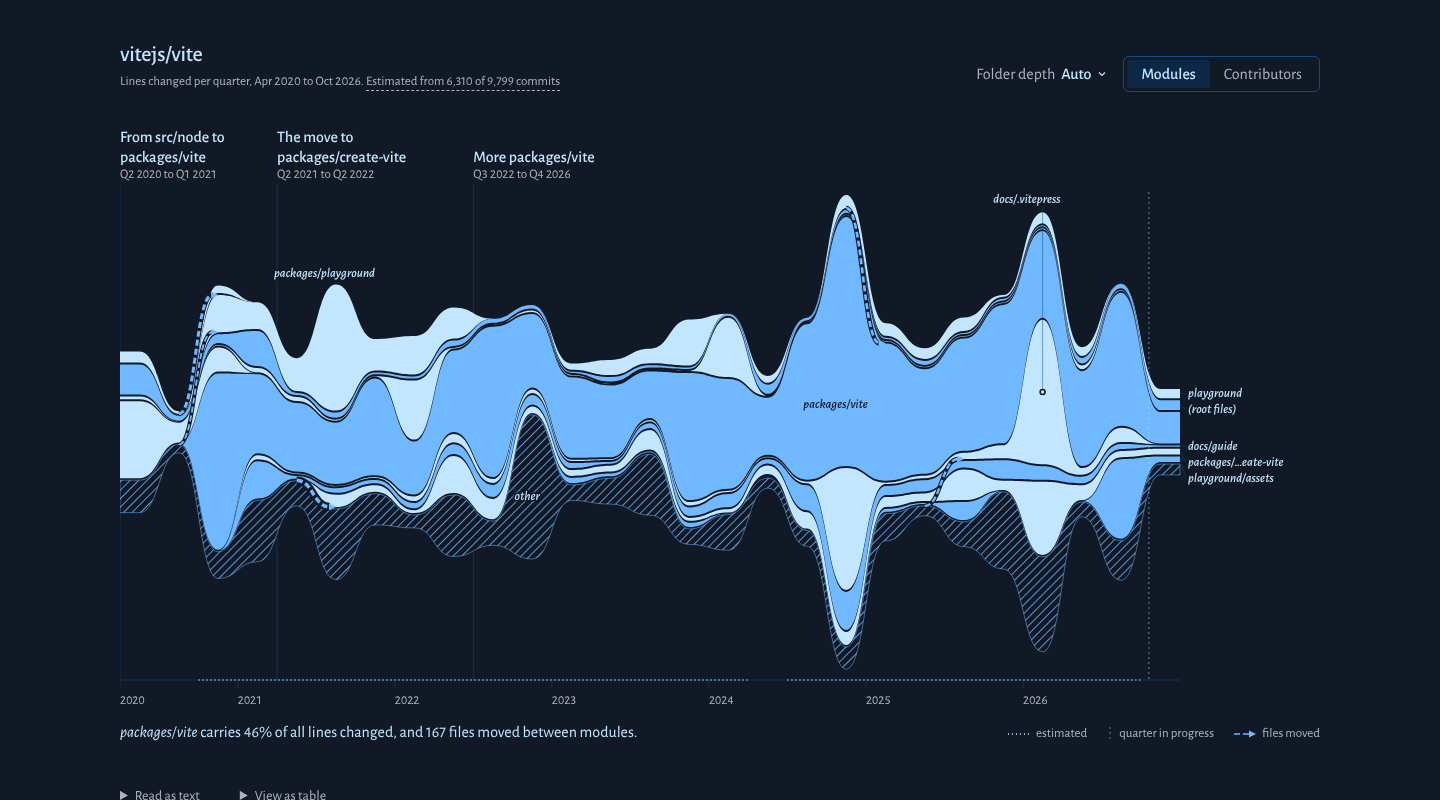
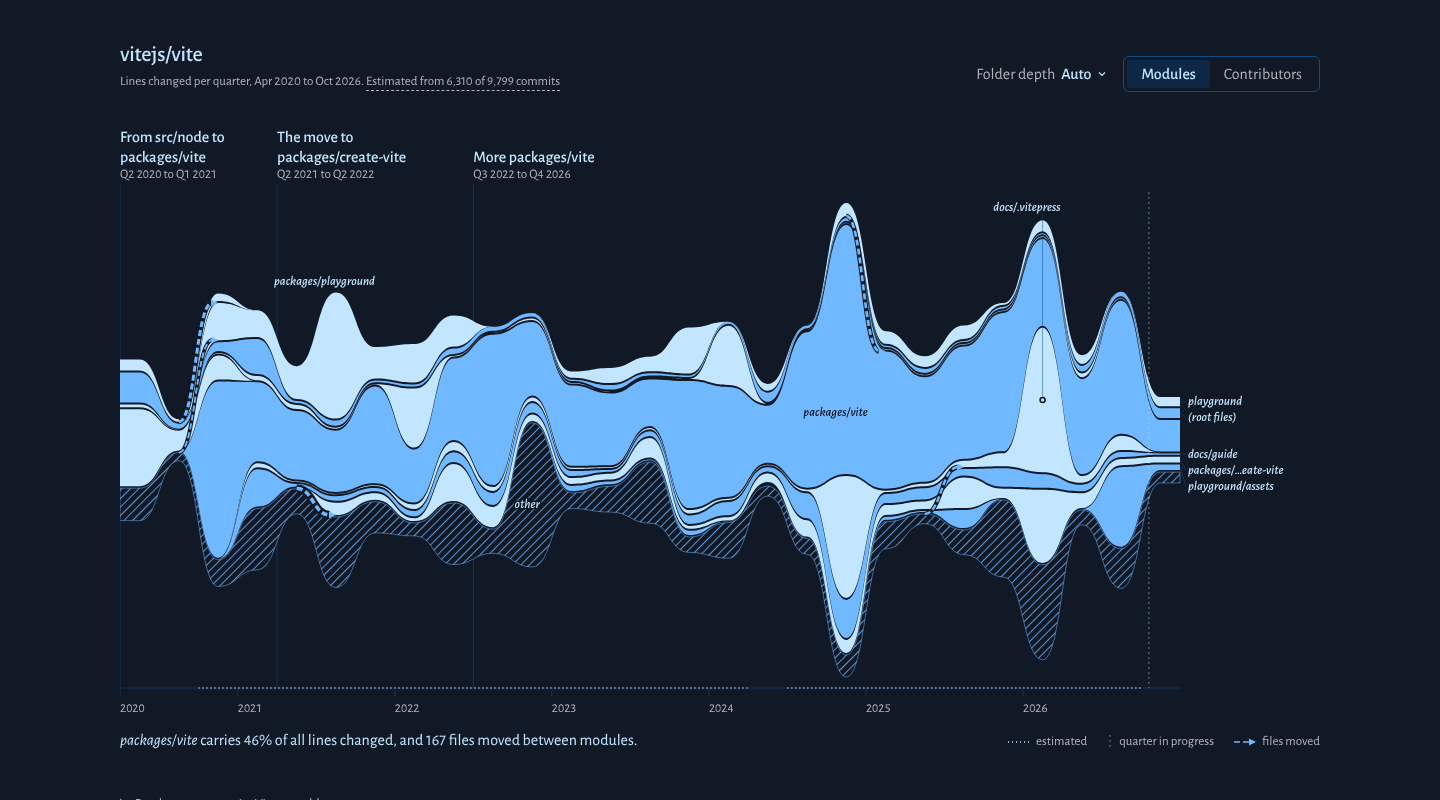
R3 review 1: unclipped focus rings, spoken-only caveats, plot top, [bot] names
- .rr-frame gets 8 px padding cancelled by a negative margin so the keyboard
  target's and era buttons' focus rings draw inside the scroll box; era
  buttons are inset so a ring stays clear of the next era's name.
- The visible readout is the board sentence plus merged moves; estimate,
  in-progress and clipped-column caveats are spoken only (readoutCaveats).
- The plot starts at ERA_BAND + 8 on desktop and in the social card.
- "bot" is not appended to names already ending in [bot] (tagsBot).
- DECISIONS rows for each, plus river focus not selecting an era.

Claude-Session: https://claude.ai/code/session_01JkYyYNqjFtcB2YRJcD65To

diff --git a/src/core/summary.test.ts b/src/core/summary.test.ts
@@ -1,7 +1,7 @@
 import { describe, expect, it } from 'vitest';
 import { layoutRivers } from './layout/layout.ts';
 import { parseAggregate, type RepoAggregate } from './schema.ts';
-import { amount, caveats, columnTotals, describeView, eraNote, eraRange, focusReadout, idleReadout, legendItems, plain, share } from './summary.ts';
+import { amount, caveats, columnTotals, describeView, eraNote, eraRange, focusReadout, idleReadout, legendItems, plain, readoutCaveats, share, tagsBot } from './summary.ts';
 import { selectView } from './view.ts';
 import express from '../samples/express.json';
 import svelte from '../samples/svelte.json';
@@ -48,12 +48,16 @@ describe('focusReadout', () => {
     expect(rich).toContainEqual({ b: new Intl.NumberFormat('en').format(r.values[i]!) });
     expect(c.estimated).toContain(i);
     expect(plain(rich)).toBe(`packages/vite, ${view.buckets[i]!.label}: ${new Intl.NumberFormat('en').format(r.values[i]!)} lines changed, `
-      + `${Math.round((100 * r.values[i]!) / totals[i]!)}% of the quarter. This quarter is estimated.`);
+      + `${Math.round((100 * r.values[i]!) / totals[i]!)}% of the quarter.`);
+    expect(readoutCaveats(view, c, i)).toBe(' This quarter is estimated.');
   });
 
-  it('reads zero values as "no changes" and adds the partial bucket on the last one', () => {
+  it('reads zero values as "no changes"; the partial bucket is spoken only', () => {
     const r = view.rivers.find((x) => x.values.at(-1) === 0)!;
-    expect(line(r.id, view.buckets.length - 1)).toBe(`${r.label}, ${view.buckets.at(-1)!.label}: no lines changed this quarter. Quarter in progress, to 20 Oct.`);
+    const last = view.buckets.length - 1;
+    expect(line(r.id, last)).toBe(`${r.label}, ${view.buckets.at(-1)!.label}: no lines changed this quarter.`);
+    expect(readoutCaveats(view, c, last)).toContain(' Quarter in progress, to 20 Oct.');
+    expect(readoutCaveats(view, c, 0)).toBe(c.estimated.includes(0) ? ' This quarter is estimated.' : '');
   });
 
   it('lists transfers in and out of the river', () => {
@@ -76,13 +80,27 @@ describe('focusReadout', () => {
     const sv = selectView(SVELTE, { dimension: 'modules' });
     const L = layoutRivers(sv, { width: 1104 });
     const sc = caveats(SVELTE, sv, L.clipped);
-    expect(line(sv.rivers[0]!.id, 9, sv, sc)).toContain(' Column drawn at 23% scale.');
+    expect(line(sv.rivers[0]!.id, 9, sv, sc)).not.toContain('scale');
+    expect(readoutCaveats(sv, sc, 9)).toContain(' Column drawn at 23% scale.');
     expect(line(null, 9, sv, sc)).toMatch(/^Q1 2019: [\d,]+ lines changed across \d+ rivers\./);
     const people = selectView(SVELTE, { dimension: 'contributors', includeBots: true });
     const bot = people.rivers.find((r) => r.bot)!;
     const rich = focusReadout(people, caveats(SVELTE, people), bot.id, bot.values.indexOf(bot.peak));
-    expect(rich.slice(0, 3)).toEqual([{ i: bot.label }, ' ', { m: 'bot' }]);
+    expect(bot.label).toMatch(/\[bot\]$/);
+    expect(rich[0]).toEqual({ i: bot.label });
+    expect(rich).not.toContainEqual({ m: 'bot' });
     expect(plain(rich)).toMatch(/ commits?, /);
+    const plainBot = { ...bot, label: 'release-helper' };
+    const relabelled = { ...people, rivers: people.rivers.map((r) => (r.id === bot.id ? plainBot : r)) };
+    const tagged = focusReadout(relabelled, caveats(SVELTE, relabelled), bot.id, bot.values.indexOf(bot.peak));
+    expect(tagged.slice(0, 3)).toEqual([{ i: 'release-helper' }, ' ', { m: 'bot' }]);
+  });
+
+  it('tags a bot only when its label does not already say [bot]', () => {
+    expect(tagsBot({ bot: true, label: 'renovate[bot]' })).toBe(false);
+    expect(tagsBot({ bot: true, label: 'Dependabot[BOT]' })).toBe(false);
+    expect(tagsBot({ bot: true, label: 'release-helper' })).toBe(true);
+    expect(tagsBot({ bot: false, label: 'someone' })).toBe(false);
   });
 
   it('names every river, never with a middle dot', () => {

diff --git a/src/core/summary.ts b/src/core/summary.ts
@@ -54,8 +54,11 @@ export type Rich = readonly (string | { i: string } | { b: string } | { m: strin
 /** The text of a {@link Rich} line, for the live region and tests. */
 export const plain = (r: Rich): string => r.map((s) => (typeof s === 'string' ? s : 'i' in s ? s.i : 'b' in s ? s.b : s.m)).join('');
 
-/** A river's name for the readout: italic, with "bot" muted after a bot's name. */
-const riverName = (r: Pick<River, 'label' | 'bot'>): Rich => (r.bot ? [{ i: r.label }, ' ', { m: 'bot' }] : [{ i: r.label }]);
+/** True when a bot's name needs "bot" after it: not when the name already says so (`renovate[bot]`). */
+export const tagsBot = (r: Pick<River, 'label' | 'bot'>): boolean => r.bot && !/\[bot\]$/i.test(r.label);
+
+/** A river's name for the readout: italic, with "bot" muted after a bot's name unless it ends in `[bot]`. */
+const riverName = (r: Pick<River, 'label' | 'bot'>): Rich => (tagsBot(r) ? [{ i: r.label }, ' ', { m: 'bot' }] : [{ i: r.label }]);
 
 /**
  * The idle readout (DESIGN §4): `*packages/vite* carries 46% of all lines changed, and 167 files moved between
@@ -72,9 +75,9 @@ export function idleReadout(view: RiverView): Rich {
 }
 
 /**
- * The readout for river `riverId` (or the whole column when null) at `bucket` (DESIGN §4):
- * `*packages*, Q2 2023: **7,732** lines changed, 21% of the quarter. 952 files moved in from *test*.`
- * then, as short sentences, moves out, the estimate, the partial bucket and a clipped column.
+ * The visible readout for river `riverId` (or the whole column when null) at `bucket` (DESIGN §4): the board
+ * sentence `*packages*, Q2 2023: **7,732** lines changed, 21% of the quarter.` and the files moved in and out.
+ * The caveats the chart draws (estimate, partial bucket, clipped column) are spoken only: {@link readoutCaveats}.
  */
 export function focusReadout(view: RiverView, c: Caveats, riverId: string | null, bucket: number): Rich {
   const b = view.buckets[bucket];
@@ -93,11 +96,20 @@ export function focusReadout(view: RiverView, c: Caveats, riverId: string | null
     out.push(...moves(view, here.filter((t) => t.to === river.id).map((t) => [t.files, t.from]), 'in from'));
     out.push(...moves(view, here.filter((t) => t.from === river.id).map((t) => [t.files, t.to]), 'out to'));
   }
-  if (c.estimated.includes(bucket)) out.push(` This ${c.unit} is estimated.`);
-  if (c.asOf !== null && bucket === view.buckets.length - 1) out.push(` ${cap(c.unit)} in progress, to ${dayMonth.format(c.asOf)}.`);
-  const f = c.clipped.get(bucket);
-  if (f !== undefined) out.push(` Column drawn at ${Math.round(100 * f)}% scale.`);
   return out;
+}
+
+/**
+ * What the chart shows about `bucket` by marks alone (the dotted axis, the dashed partial line, the break mark),
+ * as sentences for the live region: ` This quarter is estimated. Quarter in progress, to 20 Oct.`
+ */
+export function readoutCaveats(view: RiverView, c: Caveats, bucket: number): string {
+  const out: string[] = [];
+  if (c.estimated.includes(bucket)) out.push(`This ${c.unit} is estimated.`);
+  if (c.asOf !== null && bucket === view.buckets.length - 1) out.push(`${cap(c.unit)} in progress, to ${dayMonth.format(c.asOf)}.`);
+  const f = c.clipped.get(bucket);
+  if (f !== undefined) out.push(`Column drawn at ${Math.round(100 * f)}% scale.`);
+  return out.map((s) => ` ${s}`).join('');
 }
 
 /**

diff --git a/src/App.tsx b/src/App.tsx
@@ -2,7 +2,7 @@ import { useEffect, useId, useMemo, useRef, useState, type KeyboardEvent } from 
 import { layoutRivers } from './core/layout/layout.ts';
 import type { RepoAggregate } from './core/schema.ts';
 import { ERA_BAND, MOUTH_ROOM, riverNameWidth } from './core/layout/guides.ts';
-import { caveats, describeEras, describeView, eraLine, focusReadout, idleReadout, legendItems, plain, type Rich } from './core/summary.ts';
+import { caveats, describeEras, describeView, eraLine, focusReadout, idleReadout, legendItems, plain, readoutCaveats, type Rich } from './core/summary.ts';
 import { selectView } from './core/view.ts';
 import { findSample } from './samples/index.ts';
 import { Controls, type ControlValue } from './ui/Controls.tsx';
@@ -77,7 +77,7 @@ export function App() {
     const truncatedBuckets = view.metric === 'lines changed' ? agg.source.truncatedBuckets : [];
     // Desktop (DESIGN §4): the plot flush with the column's left edge, a fixed room right of it for river names.
     const desk = mobile ? {} : { inset: 0, labelRoom: MOUTH_ROOM };
-    return layoutRivers(view, { width, mobile, gap: 2, top: banded ? ERA_BAND : 8, measure: riverNameWidth, asOf: agg.generatedAt, truncatedBuckets, ...desk });
+    return layoutRivers(view, { width, mobile, gap: 2, top: banded ? ERA_BAND + 8 : 8, measure: riverNameWidth, asOf: agg.generatedAt, truncatedBuckets, ...desk });
   }, [agg, view, width, mobile, banded]);
   const [era, setEra] = useState<number | null>(null);
   const eraOn = era === null ? undefined : eras[era];
@@ -124,7 +124,9 @@ export function App() {
     : failed ? failed.title // the visible readout names the error; the live region (below) speaks it in full
     : view && eraOn ? eraLine(view, eraOn)
     : view && notes && active.bucket !== null ? focusReadout(view, notes, active.river, active.bucket) : idle;
-  const text = typeof readout === 'string' ? readout : plain(readout);
+  const focused = !failed && rs.status !== 'loading' && !eraOn && view && notes && active.bucket !== null;
+  // The caveats the chart draws as marks (estimate, partial bucket, clipped column) are spoken, not shown.
+  const text = typeof readout === 'string' ? readout : plain(readout) + (focused ? readoutCaveats(view, notes, active.bucket!) : '');
   // After a sample switch or a drawn repo, the live region names it until the first movement in the new chart.
   const spoken = failed ? `${failed.title}. ${failed.body}` : eraOn ? '' : switched && readout === idle ? `Showing ${repoName ? heading : `${title}: ${heading}`}. ${text}` : text;
   const unit = agg?.time.unit;

diff --git a/src/ui/RiverChart.tsx b/src/ui/RiverChart.tsx
@@ -15,7 +15,7 @@ const ARROW = 7;
 export interface RiverChartProps {
   aggregate: RepoAggregate;
   view: RiverView;
-  /** Laid out with `top: ERA_BAND` when `eras` are drawn: the band sits in the first 84 px of the SVG. */
+  /** Laid out with `top: ERA_BAND + 8` when `eras` are drawn: the band sits in the first 84 px of the SVG. */
   layout: RiverLayout;
   mobile: boolean;
   /** The active river and bucket (from `useRiverFocus`). */
@@ -172,7 +172,7 @@ export function RiverChart({ aggregate, view, layout: L, mobile, active, chart, 
             </g>
           ))}
         </g>
-        {L.partial && <line x1={L.partial.x} x2={L.partial.x} y1={top} y2={axisY} className="rr-survey" data-partial />}
+        {L.partial && <line x1={L.partial.x} x2={L.partial.x} y1={banded ? ERA_BAND : top - 8} y2={axisY} className="rr-survey" data-partial />}
       </svg>
       {interactive && (
         // oxlint-disable-next-line jsx-a11y/no-noninteractive-tabindex -- role="application": the chart's one tab stop (arrow keys)
@@ -203,7 +203,7 @@ function EraButtons({ eras, marks, active, onActive, width }: { eras: readonly E
         return (
           <button key={`${e.start}-${e.end}`} type="button" className="rr-era" data-era={i} data-source={e.source} data-active={i === active || undefined}
             aria-label={`${e.title}, ${m.range}${e.source === 'ai' ? ', named by AI' : ''}`} aria-describedby={`${id}-${i}`}
-            style={{ left: m.x0 - 4, width: m.x1 - m.x0 }} onFocus={() => setFocused(i)} onBlur={() => setFocused(null)}
+            style={{ left: m.x0 - 4, width: Math.max(8, m.x1 - m.x0 - 8) }} onFocus={() => setFocused(i)} onBlur={() => setFocused(null)}
             onPointerEnter={() => setHovered(i)} onPointerLeave={() => setHovered(null)}>
             <span className="rr-sr" id={`${id}-${i}`}>{eraNote(e.note)}</span>
           </button>

diff --git a/src/index.css b/src/index.css
@@ -48,7 +48,9 @@ a { color: inherit; text-underline-offset: 3px; }
 .rr-card h2 { font: 500 22px/28px var(--rr-font); letter-spacing: -0.01em; margin: 0; }
 .rr-meta { margin-top: 4px; font-size: 13px; line-height: 20px; color: var(--muted); }
 .rr-caption { font-size: 14px; margin: 0 0 4px; }
-.rr-frame { overflow-x: auto; min-height: 352px; }
+/* 8 px of padding, taken back by the margin, so focus rings (2 px, offset 2) on the chart and era buttons are not
+   clipped by the scroll box while the drawing keeps its place on the column. */
+.rr-frame { overflow-x: auto; min-height: 352px; padding: 8px; margin: -8px; }
 /* The chart (DESIGN §4): no hue; two waters, a hatched "other", 0.5 rules, 13/16 text. */
 .rr-stack { position: relative; width: max-content; }
 .rr-chart { display: block; font-family: var(--rr-font); }
@@ -95,7 +97,7 @@ a { color: inherit; text-underline-offset: 3px; }
 /* The keyboard target and the era buttons are HTML laid over the drawing (it is one role="img"). */
 .rr-plot { position: absolute; pointer-events: none; }
 .rr-eras { position: absolute; top: 0; left: 0; pointer-events: none; }
-.rr-era { position: absolute; top: 0; bottom: 0; box-sizing: border-box; margin: 0; padding: 0; border: 0; border-radius: 3px; background: none; pointer-events: auto; cursor: default; }
+.rr-era { position: absolute; top: 4px; bottom: 4px; box-sizing: border-box; margin: 0; padding: 0; border: 0; border-radius: 3px; background: none; pointer-events: auto; cursor: default; }
 /* The under row: the live readout left, the legend right. */
 .rr-under { display: flex; flex-wrap: wrap; justify-content: space-between; align-items: baseline; gap: 4px 24px; margin-top: 4px; }
 .rr-readout { flex: 1 1 520px; min-height: 24px; }

diff --git a/src/core/layout/layout.test.ts b/src/core/layout/layout.test.ts
@@ -237,6 +237,16 @@ describe('layout against the spec numbers', () => {
     expect(gutter.every((p) => p.x >= 1060 && p.x + p.width <= 1200)).toBe(true);
   });
 
+  it('labels a bot river "bot" unless its name already ends in [bot]', () => {
+    const view = selectView(AGG.svelte!, { dimension: 'contributors', includeBots: true });
+    const bot = view.rivers.find((r) => r.bot)!;
+    expect(bot.label).toMatch(/\[bot\]$/);
+    const text = (v: RiverView) => layoutRivers(v, { width: W, height: H }).labels.placed.find((p) => p.id === bot.id)?.text;
+    expect(text(view)).toBe(bot.label);
+    const renamed = { ...view, rivers: view.rivers.map((r) => (r.id === bot.id ? { ...r, label: 'release-helper' } : r)) };
+    expect(text(renamed)).toBe('release-helper bot');
+  });
+
   it('L11 the partial-bucket marker sits inside the last bucket; estimated runs follow truncatedBuckets', () => {
     for (const name of SAMPLES) {
       const L = get(name, 'modules');

diff --git a/src/core/layout/layout.ts b/src/core/layout/layout.ts
@@ -1,5 +1,6 @@
 /** `layoutRivers`: pure timeline-sankey geometry for a {@link RiverView} (docs/viz/rivers.md §3–§5). */
 import { tones, type Tone } from '../tones.ts';
+import { tagsBot } from '../summary.ts';
 import type { RiverView } from '../view.ts';
 import { LABEL_HEIGHT, placeLabels, type Box, type PlacedLabel } from './labels.ts';
 import { laneOrder } from './order.ts';
@@ -180,7 +181,7 @@ function build(view: RiverView, o: LayoutOptions, gutter: number): { layout: Riv
 
   const labels = placeLabels({
     bands: lanes.map((r, j) => ({
-      id: r.id, text: r.bot ? `${r.label} bot` : r.label, total: r.total, other: r.kind === 'other',
+      id: r.id, text: tagsBot(r) ? `${r.label} bot` : r.label, total: r.total, other: r.kind === 'other',
       values: r.values, top: extend(tops[j]!), bottom: extend(bots[j]!),
     })),
     xs, plot, bucketWidth: w, measure, gutter: !mobile, gutterRoom: gutter, window: mobile ? 360 : Infinity,

diff --git a/src/ui/DataTable.test.ts b/src/ui/DataTable.test.ts
@@ -22,7 +22,7 @@ describe('DataTable', () => {
     expect(cells(head, 'th')).toEqual(['River', ...view.buckets.map((b) => b.label), 'Total']);
     expect(head.match(/scope="col"/g)).toHaveLength(view.buckets.length + 2);
     const rows = [...html.match(/<tbody>(.*)<\/tbody>/)![1]!.matchAll(/<tr>(.*?)<\/tr>/g)].map((m) => m[1]!);
-    expect(rows.map((r) => r.match(/<th scope="row">(.*?)<\/th>/)![1])).toEqual(view.rivers.map((r) => (r.bot ? `${r.label} <span class="rr-muted">bot</span>` : r.label)));
+    expect(rows.map((r) => r.match(/<th scope="row">(.*?)<\/th>/)![1])).toEqual(view.rivers.map((r) => (r.bot && !/\[bot\]$/i.test(r.label) ? `${r.label} <span class="rr-muted">bot</span>` : r.label)));
     const values = rows.map((r) => cells(r, 'td').map((v) => Number(v.replaceAll(',', ''))));
     expect(values).toEqual(view.rivers.map((r) => [...r.values, r.total]));
   });

diff --git a/src/ui/useSize.ts b/src/ui/useSize.ts
@@ -1,13 +1,14 @@
 import { useLayoutEffect, useRef, useState, useSyncExternalStore } from 'react';
 
-/** Content-box width of the referenced element, measured before first paint and on every resize. */
+/** Content-box width (padding excluded) of the referenced element, measured before first paint and on every resize. */
 export function useWidth<T extends HTMLElement>(): [React.RefObject<T | null>, number] {
   const ref = useRef<T>(null);
   const [width, setWidth] = useState(0);
   useLayoutEffect(() => {
     const el = ref.current;
     if (!el) return;
-    setWidth(el.clientWidth);
+    const pad = getComputedStyle(el);
+    setWidth(el.clientWidth - parseFloat(pad.paddingLeft) - parseFloat(pad.paddingRight));
     const ro = new ResizeObserver(([entry]) => setWidth(Math.floor(entry!.contentRect.width)));
     ro.observe(el);
     return () => ro.disconnect();

diff --git a/src/ui/DataTable.tsx b/src/ui/DataTable.tsx
@@ -1,5 +1,6 @@
 import { useId } from 'react';
 import type { Era } from '../core/schema.ts';
+import { tagsBot } from '../core/summary.ts';
 import type { RiverView } from '../core/view.ts';
 
 const num = new Intl.NumberFormat('en');
@@ -24,7 +25,7 @@ export function DataTable({ view, caption, eras = [] }: { view: RiverView; capti
           <tbody>
             {view.rivers.map((r) => (
               <tr key={r.id}>
-                <th scope="row">{r.label}{r.bot && <> <span className="rr-muted">bot</span></>}</th>
+                <th scope="row">{r.label}{tagsBot(r) && <> <span className="rr-muted">bot</span></>}</th>
                 {r.values.map((v, i) => <td key={i}>{num.format(v)}</td>)}
                 <td>{num.format(r.total)}</td>
               </tr>

diff --git a/src/ui/SocialCard.tsx b/src/ui/SocialCard.tsx
@@ -27,7 +27,7 @@ export function SocialCard() {
   const view = useMemo(() => agg && selectView(agg, OPTIONS), [agg]);
   const eras = agg?.eras ?? [];
   const layout = useMemo(() => agg && view && layoutRivers(view, {
-    width: WIDTH, height: HEIGHT, gap: 2, top: agg.eras?.length ? ERA_BAND : 8, measure: riverNameWidth, asOf: agg.generatedAt, truncatedBuckets: agg.source.truncatedBuckets,
+    width: WIDTH, height: HEIGHT, gap: 2, top: agg.eras?.length ? ERA_BAND + 8 : 8, measure: riverNameWidth, asOf: agg.generatedAt, truncatedBuckets: agg.source.truncatedBuckets,
   }), [agg, view]);
   const summaryId = useId();
   const years = view ? `${view.buckets[0]?.label.slice(-4)}–${view.buckets.at(-1)?.label.slice(-4)}` : '';

diff --git a/docs/DECISIONS.md b/docs/DECISIONS.md
@@ -107,7 +107,11 @@ Record every non-trivial decision here: date, decision, alternatives considered,
 | 2026-10-25 | Redesign R3: tones are the board's greedy two-colouring (`tones()` in gen.mjs) as is, without a local-improvement pass; the test checks its guarantee (at most half of the touching columns share a tone) rather than optimality | Add flips until no single flip helps | The boards were drawn with the greedy result; a refinement would recolour rivers against the approved boards for little gain. |
 | 2026-10-25 | Redesign R3: bots keep a dotted outline, drawn in the ground colour (dots that perforate the river's edge) rather than ink; the legend gains a "bot" item when bots are shown | Ink dots as before | Ink equals water A in both themes, so ink dots vanish on half the rivers; ground dots show on both waters. The dotted outline carries meaning, so the legend explains it. |
 | 2026-10-25 | Redesign R3: "era names by AI" moves from the old era track into the legend (only when the names are AI's); era buttons keep "named by AI" in their names | Drop the disclosure (the boards show heuristic names only) | Saying when text was written by a model is not redundant; the legend is where the chart's marks are explained. |
-| 2026-10-25 | Redesign R3: the readout keeps the caveats the old one carried, as short sentences after the board copy ("This quarter is estimated.", "Quarter in progress, to 20 Oct.", "Column drawn at 23% scale."), and lists many moves in one sentence, largest first ("952 files moved in from test, 231 from src and 9 from 2 more modules."); after a sample switch only the live region says "Showing …" | Only the board sentence; one sentence per move | Screen-reader users get the caveats only from the readout; one sentence per move made Svelte's packages readout four lines long. |
+| 2026-10-25 | Redesign R3 (review 1): the visible readout is the board sentence plus the merged moves only, many moves in one sentence, largest first ("952 files moved in from test, 231 from src and 9 from 2 more modules."); the bucket caveats ("This quarter is estimated.", "Quarter in progress, to 20 Oct.", "Column drawn at 23% scale.") go only into the live-region text (`readoutCaveats()`); after a sample switch only the live region says "Showing …" | Show the caveats after the board copy; one sentence per move | The chart draws each caveat as a mark (dotted rule, dashed partial line, clip marker) that the legend explains, so sighted readers have them and the board copy stays one line; screen-reader users get them only from the readout, so they stay spoken. |
 | 2026-10-25 | Redesign R3: the axis has no year graticule (the era rules are the only verticals), the bucket tag under the cursor goes (the readout names the quarter), and the partial bucket is a dashed line without its "to 20 Oct 2026" text (the legend says "quarter in progress", the readout gives the date) | Keep them | Matches the boards; each fact is still in text. |
 | 2026-10-25 | Redesign R3: the desktop layout gets `inset: 0` and a fixed `labelRoom: 140` (plot x 0..W−140 of the column, so 120..1180 at 1440), `top: 84` for the era band and `gap: 2`; river names are measured at 6.3 px per character + 4 (13 px italic); the phone (≤ 640) keeps the old scrolling layout until R6, now with the era band and new fills | A new layout function for desktop | Small options on the same pure `layoutRivers` keep its tests and the phone path working. |
+| 2026-10-25 | Redesign R3 (review 1): river focus does not select an era; the era band the V2Focus board shows behind the focused river is a board-only demo of era selection, not a state the app enters on focus | Band the era under the focused bucket | Era selection is its own action (an era button); tying it to river focus would change two things at once and make the band flicker while arrowing across buckets. |
+| 2026-10-25 | Redesign R3 (review 1): focus rings are never clipped: `.rr-frame` (which scrolls horizontally) gets 8 px of padding cancelled by an equal negative margin, so the drawing stays on the boards' positions while the 2 px + 2 px ring of the keyboard target and the era buttons draws inside the scroll box; era buttons are inset 4 px on each side and 4 px from the band's top and the era rule, so a ring stays clear of the next era's name; `useSize` measures the content box | `overflow: visible` (breaks the phone's horizontal scroll); an inset box-shadow ring | Keeps the one global `:focus-visible` style and the scroll container. |
+| 2026-10-25 | Redesign R3 (review 1): the plot starts at `ERA_BAND + 8` (y 92) on desktop and in the social card, 8 px under the era rules' top (y 76); the partial-bucket line starts at the band edge when eras show, and the focus rule ends at the axis | `top: ERA_BAND` | Matches the boards' 8 px between the era band and the first river. |
+| 2026-10-25 | Redesign R3 (review 1): "bot" is appended to a bot's name (chart label, readout, table) only when the name does not already end in `[bot]` (`tagsBot()`) | Always append | "renovate[bot] bot" says it twice; every sample bot already ends in `[bot]`. |
 | 2026-10-25 | Redesign R3: the browser checks follow the chart in this PR: phases 1 and 3 expect the owner/name heading (an R2 change they had missed), phase 5 the water fills, dash and 7 px arrowhead, phase 6 the legend, sentence readout, water-A focus, ink transfers, 250 ms fade and the focus ring on the keyboard target, phases 8, 9 and 11 the sentence aria-label and the era band (rules aligned to bucket edges, one button per era, "era names by AI" in the legend) | Defer to R7 | Phases 1, 3, 5, 6, 8, 9 and 11 must pass at every phase. |
